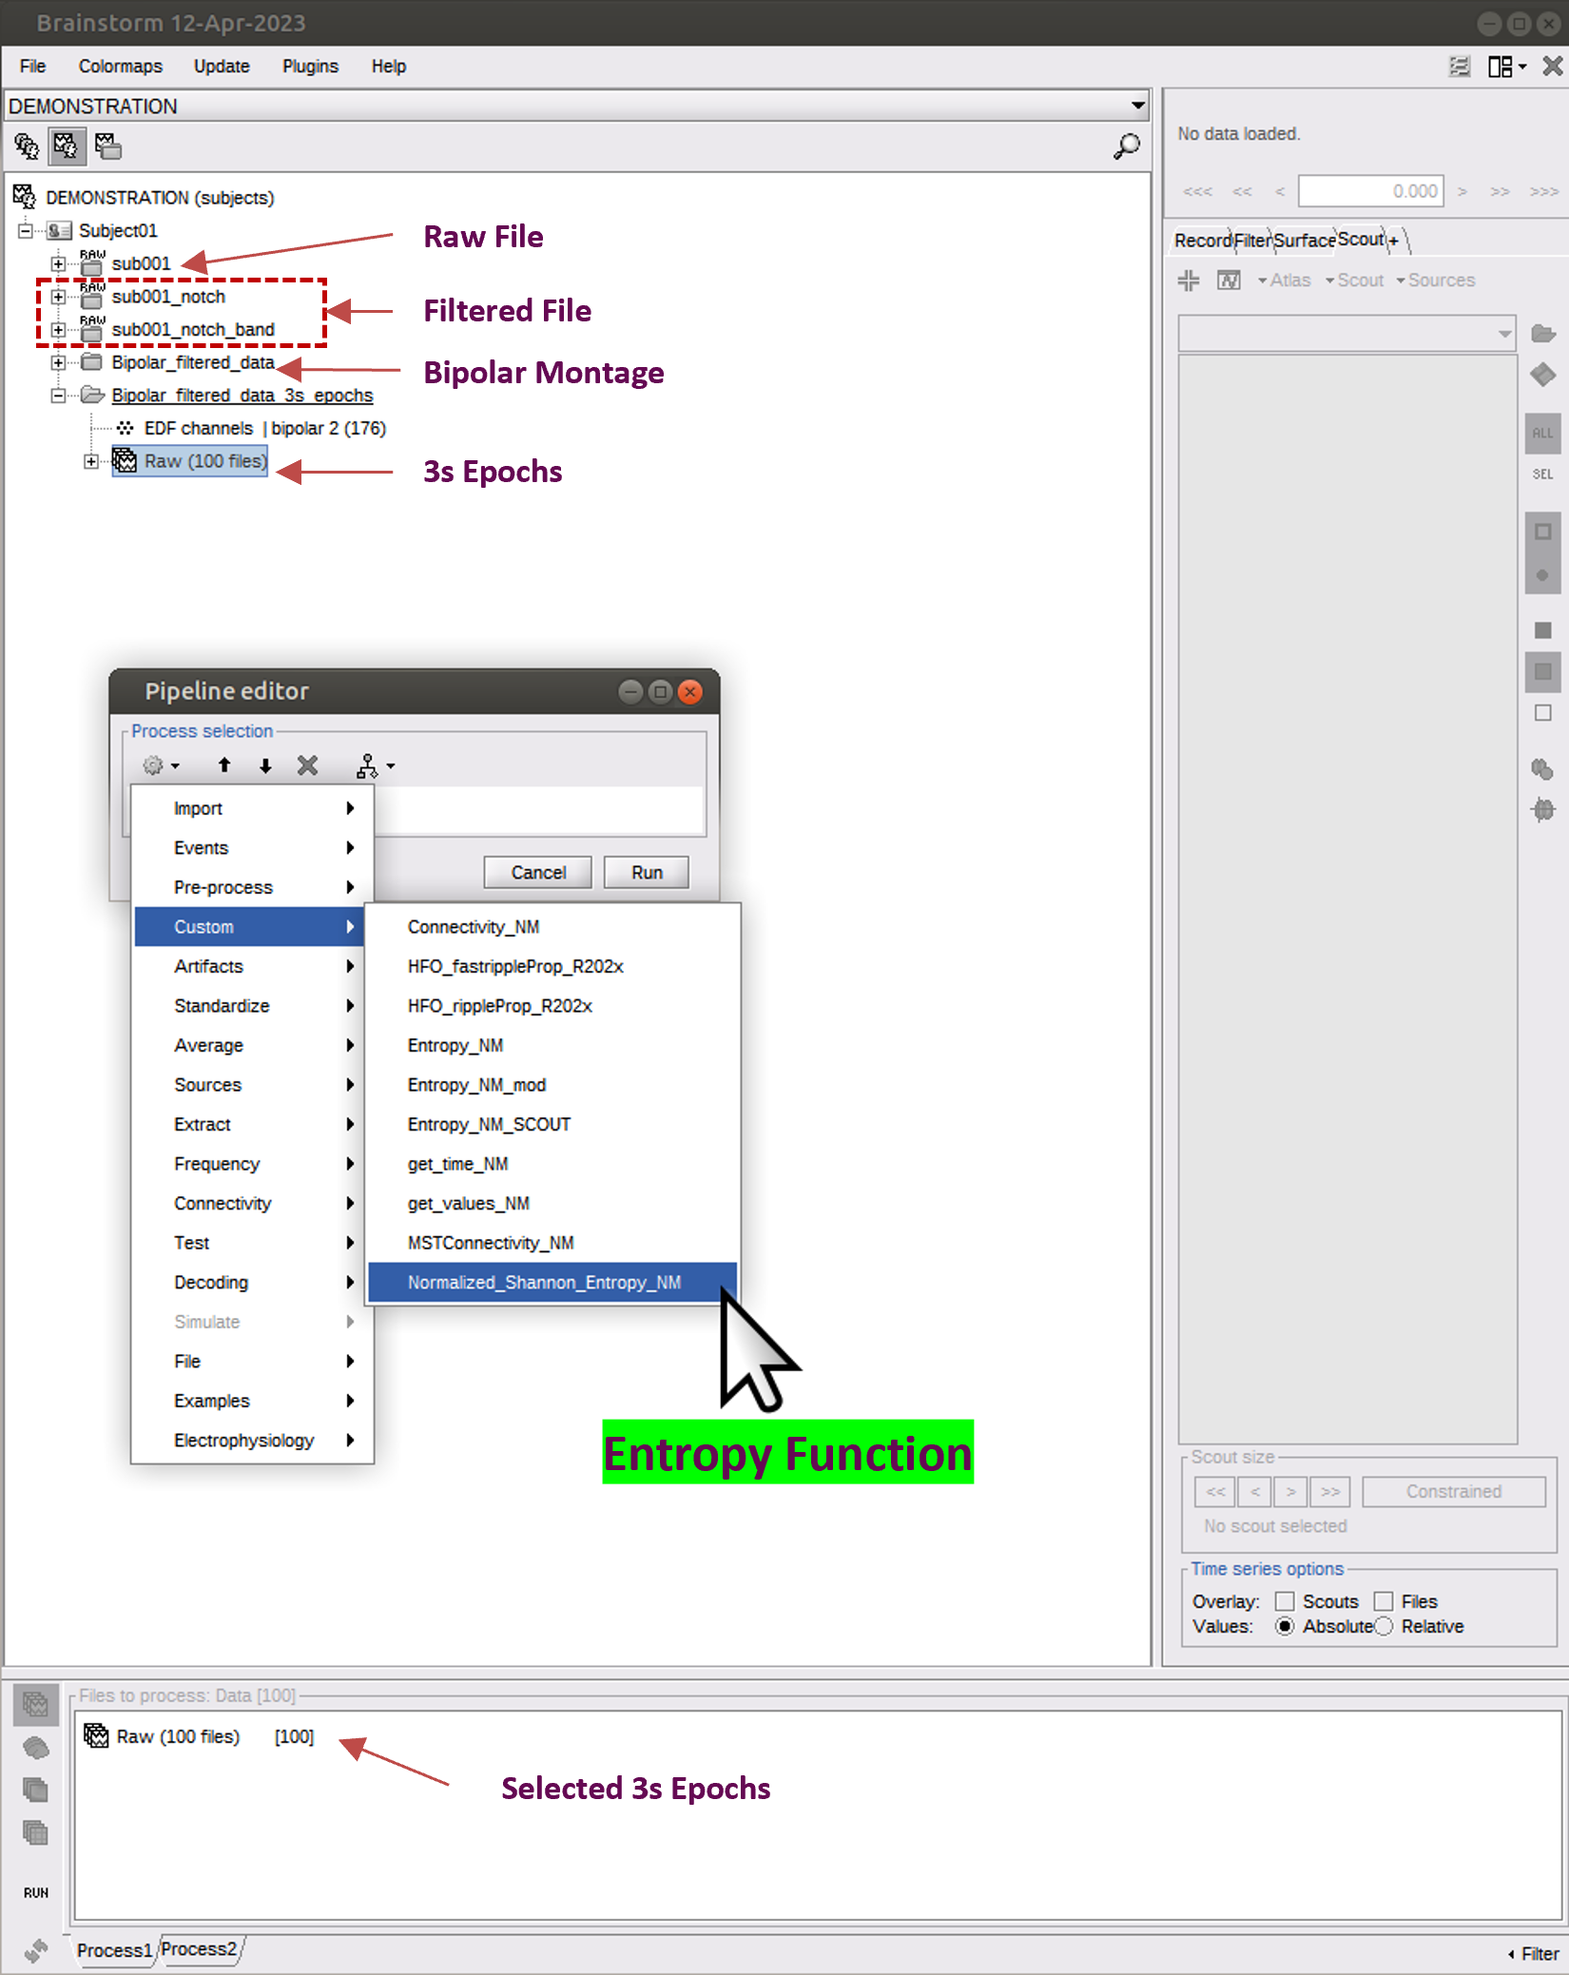
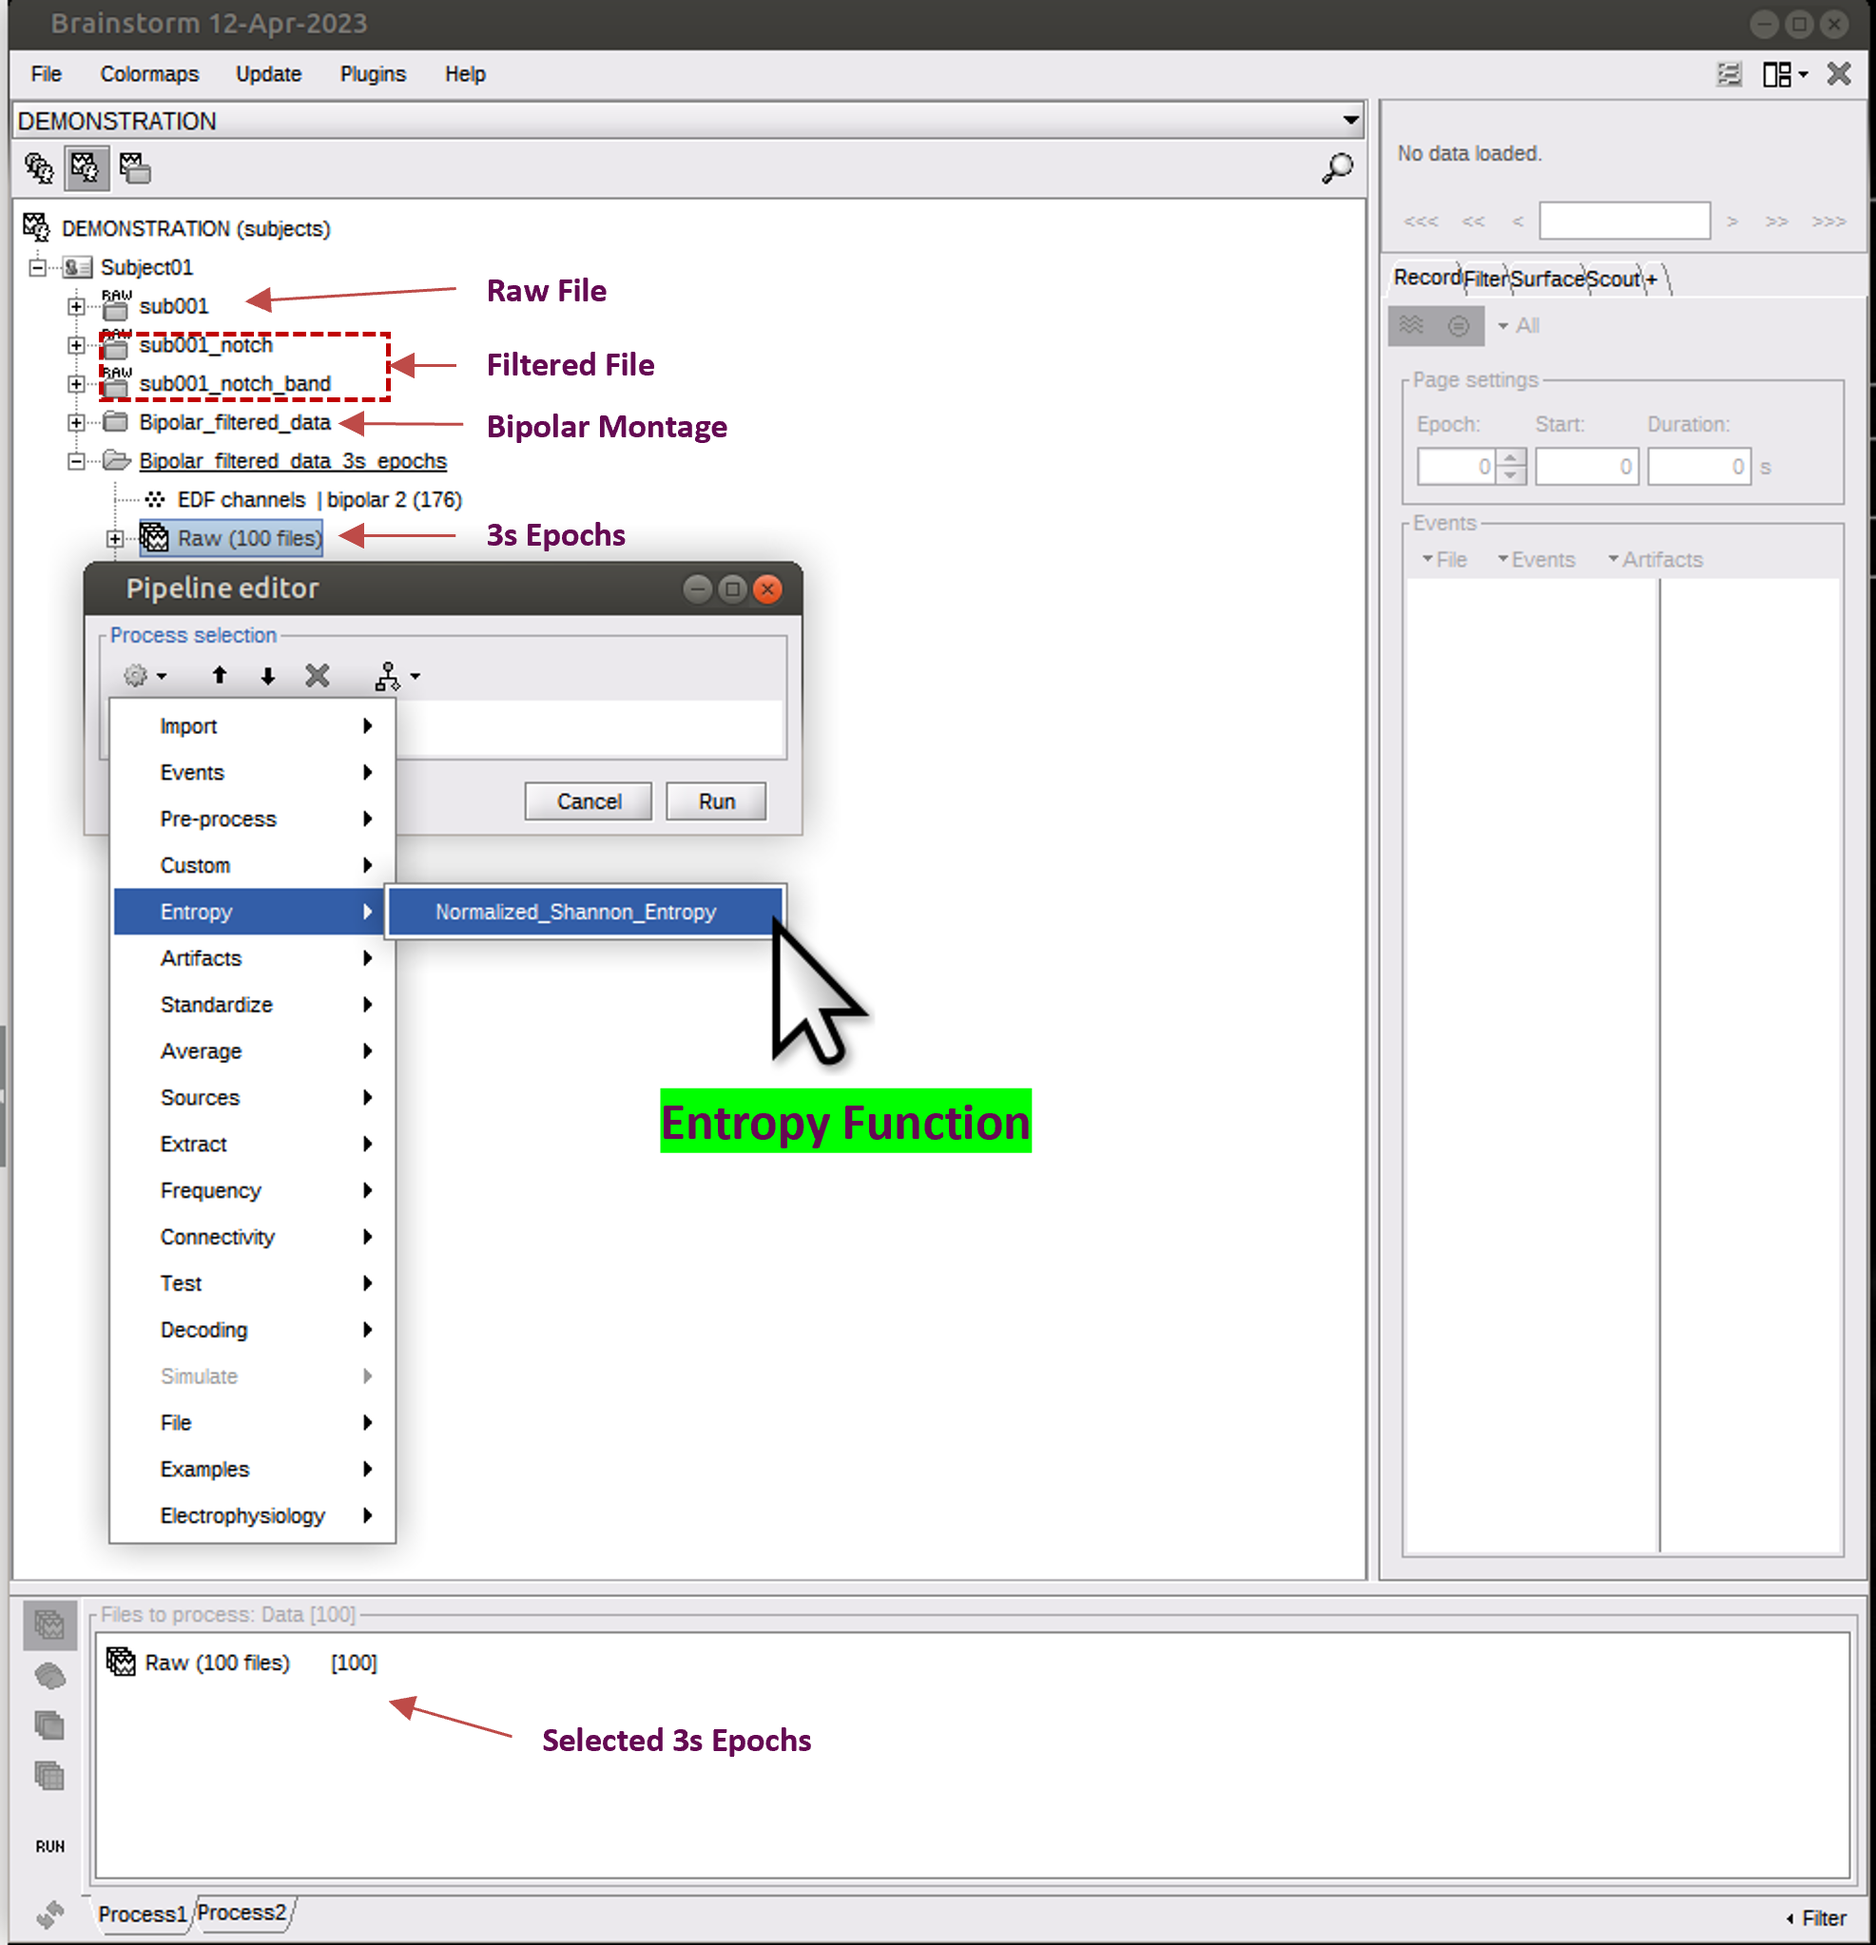
updated tutorial images

Changed region(s): [[0.0, 0.0, 1.0, 1.0], [0.2782, 0.893, 0.4945, 0.9238]]

diff --git a/process_normalizedshannon_entropy.m b/process_normalizedshannon_entropy.m
@@ -23,10 +23,10 @@ end
 %% ===== GET DESCRIPTION =====
 function sProcess = GetDescription() %#ok<DEFNU>
 % Description the process
-sProcess.Comment     = 'Normalized_Shannon_Entropy_NM';
+sProcess.Comment     = 'Normalized_Shannon_Entropy';
 sProcess.FileTag     = 'Custom';
 sProcess.Category    = 'Custom';
-sProcess.SubGroup    = 'Custom';
+sProcess.SubGroup    = 'Entropy';
 sProcess.Index       = 72;
 sProcess.Description = '';
 % Definition of the input accepted by this process

diff --git a/README.md b/README.md
@@ -15,18 +15,38 @@ Download the latest code from the github page and add it to your /$HOME/.brainst
 process_normalizedshannon_entropy.m 
 
 
-Steps to use it with brainstorm
-1) Preprocess your signal appropriately and segment to epochs. If you are planning to replicate our work then apply notch and bandpass filter (1 - 500 Hz), apply bipolar montage and then import 3s epochs.
-![Preprocessing the signal](imgs/fig1.png)
-2) Once you open brainstorm you will find this code in the custom folder
-3) Drag your signal/epochs into the brainstorm process tab and run the function from the custom code.
+# Steps to use it with brainstorm
+1) Add the file "process_normalizedshannon_entropy.m" to you brainstorm process folder (hidden folder: /$HOME/.brainstorm/process/). Once this is done, you will find this function "process_normalizedshannon_entropy" in the list of "Entropy" function you can run through the Brainstorm process tab.
+   
+2) Now, in Brainstorm, preprocess your signal appropriately and import the epoch/s you want to extract entropy from (right-click on raw file, "Import in database"). If you are planning to replicate our work then import 3-second epochs, apply notch and bandpass filter (1 - 500 Hz) and apply bipolar montage.
+   
+3) Drag your signal/epochs into the brainstorm process tab and run the function from the "Entropy" tab (see image "Running Entropy Analysis").
+4) Insert the type of channels you want to analyze (SEEG and/or ECOG). See image "Select appropriate channels"
+
+5) This will generate an output file for each epoch which will be labeled with an "ENT". If you have multiple epochs, you can average their outputs through brainstorm (drag files in the process tab, then "Average files", see image "Averaged Entropy")
+   
+6) You can visualize the output entropy values as 2-D or 3D image, by right-click on the output file and click on "2D Electrodes" or "3D electrodes" (see images below)
+   
+7) To extract the entropy values to Matlab, right-click on the output file and "Export to Matlab". Entropy values will be in the "TF" field of the exported structure.
+For the individual epoch outputs (not the averaged), you will also find a table (named "T_op") inside the exported structure which contains entropy values and corresponding electrode names.
+   
+**Running Entropy Analysis**
+
+![Running Entropy Analysis](imgs/fig1.png)
+
+**Select appropriate channels**
+
 ![Select appropriate channels](imgs/fig2.png)
 
-![Running the code](imgs/fig3.png)
-4) This will generate a table inside the result_datafile (T_op) which can be exported to matlab and analysed. The generated output is also inside the result_datafile.TF
-5) The function will return one file per epoch. Take the median/average using brainstorm function to obtain a single file
+**Averaged Entropy**
+
 ![Averaged Entropy](imgs/fig4.png)
+
+**Representative Output**
+
 ![Representative Outputs](imgs/fig5.png)
-A 3D plot can also be generated.
+
+**3D visualization**
+
 ![3D visualization](imgs/fig3d.gif)
 
